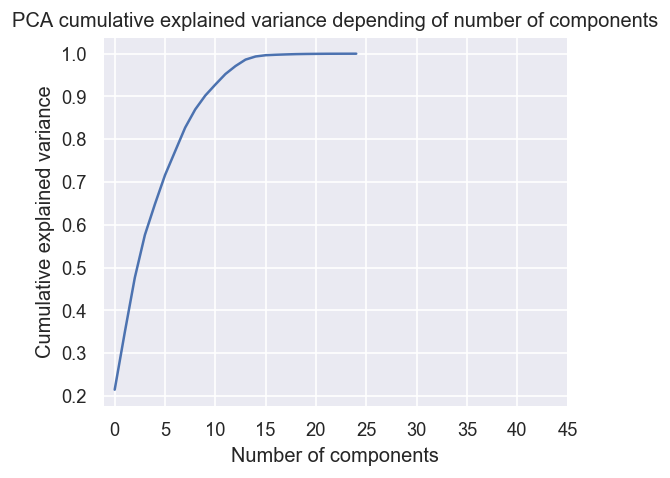
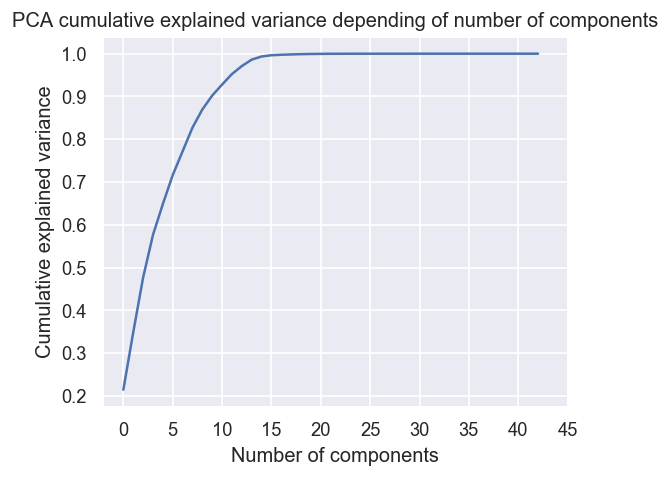
Upload correct plot for n_comp at PCA

diff --git a/pca_componets.py b/pca_componets.py
@@ -18,7 +18,7 @@ def pca_cumulative_explained_variance(data, logger):
   std_data = std_scaler.fit_transform(data)
 
   logger.log("Starting PCA on {} features...".format(data.shape[1]))
-  pca = PCA(n_components=25).fit(std_data)
+  pca = PCA().fit(std_data)
   logger.log("PCA done", show_time = True)
 
   sns.set()
